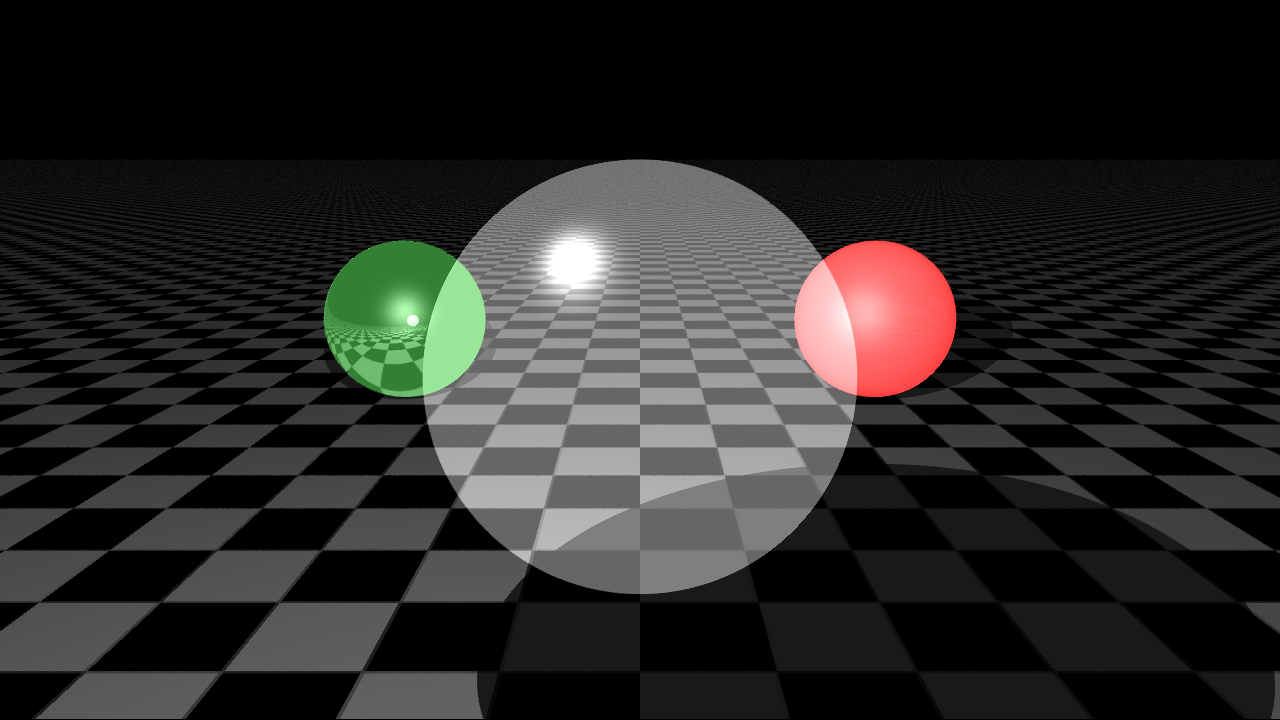
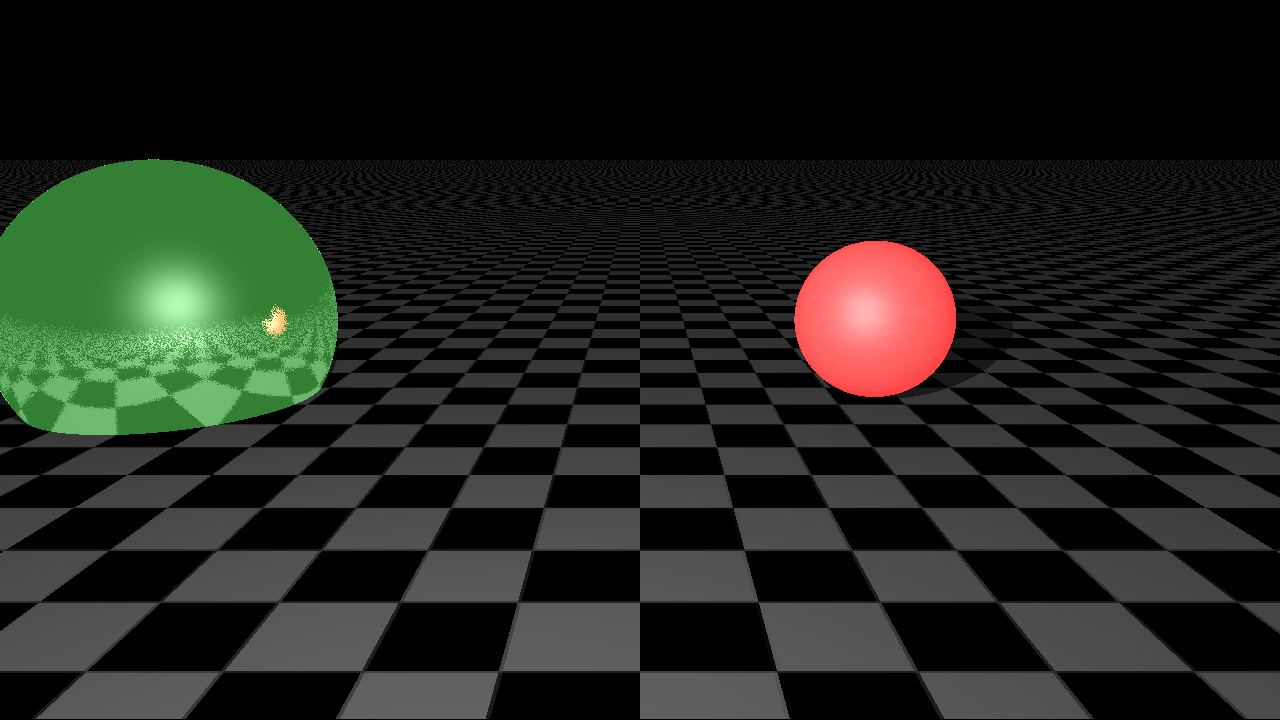
Perturbance in progress

diff --git a/src/RayTracer.cpp b/src/RayTracer.cpp
@@ -472,17 +472,22 @@ void RayTracer::orthoBasis(const vec3& x,
 						   vec3& w)
 {
 	u = x; //x = [a,b,c]
-	v = vec3(0, -x.z, x.y);
+	v = normalize(vec3(0, -x.z, x.y));
 	if (equalToVec3(v, vec3(0,0,0))) {
-		v = vec3(-x.z, 0, x.x);
+		v = normalize(vec3(-x.z, 0, x.x));
 	}
 
-	w = cross(u,v);
+	w = normalize(cross(u,v));
 
-	printVec3("X", x);
-	printVec3("u", u);
-	printVec3("v", v);
-	printVec3("w", w);
+//	printVec3("X", x);
+//	printVec3("u", u);
+//	printVec3("v", v);
+//	printVec3("w", w);
+//
+//	printf("1: %f\n", dot(u,v));
+//	printf("2: %f\n", dot(v,w));
+//	printf("3: %f\n", dot(u,w));
+
 
 }
 
@@ -498,8 +503,16 @@ RayTracer::calculateReflections(Scene& scene,
 		return COLOR_BLACK;
 	}
 
+/*
+	vec3 o(-1,0,0);
+	vec3 d(1,0,0);
+	hit.normal = normalize(vec3(-1, 1, 0));
+	ray = Ray(o, d);
+*/
+
+	vec3 color = COLOR_BLACK;
 	vec3 reflectedRayOrigin = hit.point;
-	vec3 reflectedRayDir = glm::reflect(ray.direction, hit.normal);
+	vec3 reflectedRayDir = normalize(glm::reflect(ray.direction, hit.normal));
 	reflectedRayOrigin = reflectedRayOrigin + EPSILON * reflectedRayDir;
 	Ray reflectedRay(reflectedRayOrigin , reflectedRayDir);
 
@@ -507,25 +520,29 @@ RayTracer::calculateReflections(Scene& scene,
 
 	random_device rd;  //Will be used to obtain a seed for the random number engine
 	mt19937 gen(rd()); //Standard mersenne_twister_engine seeded with rd()
-	uniform_real_distribution<> dis(0, 1);
+	uniform_real_distribution<> dis(0, 0.1);
 	GLfloat r1 = dis(gen);
 	GLfloat r2 = dis(gen);
-	GLfloat w1 = (-1/2 + r1);
-	GLfloat w2 = (-1/2 + r2);
-
+	GLfloat w1 = (-0.01/2.f + r1);
+	GLfloat w2 = (-0.01/2.f + r2);
 
 	orthoBasis(reflectedRayDir, u, v, w);
+
 	for (int n = 0 ; n < 16 ; ++n)
 	{
-		vec3 perturbedRayDir = u + w1*v + w2*w;
+		vec3 perturbedRayDir = normalize(u + w1*v + w2*w);
+//		printVec3("REF", reflectedRayDir);
+//		printVec3("Per", perturbedRayDir);
+
 		GLfloat contribution = dot(reflectedRayDir, perturbedRayDir);
 		Ray perturbedRay(reflectedRayOrigin , perturbedRayDir);
 
-		hit.properties._reflection * recursiveRayTrace(scene, perturbedRay, depth);
+//		printf("Contri %f\n", contribution);
+		color += contribution * hit.properties._reflection * recursiveRayTrace(scene, perturbedRay, depth-1);
 	}
 
 
-	return hit.properties._reflection * recursiveRayTrace(scene, reflectedRay, --depth);
+	return (color + hit.properties._reflection * recursiveRayTrace(scene, reflectedRay, depth-1)) / 17.0f;
 }
 
 
